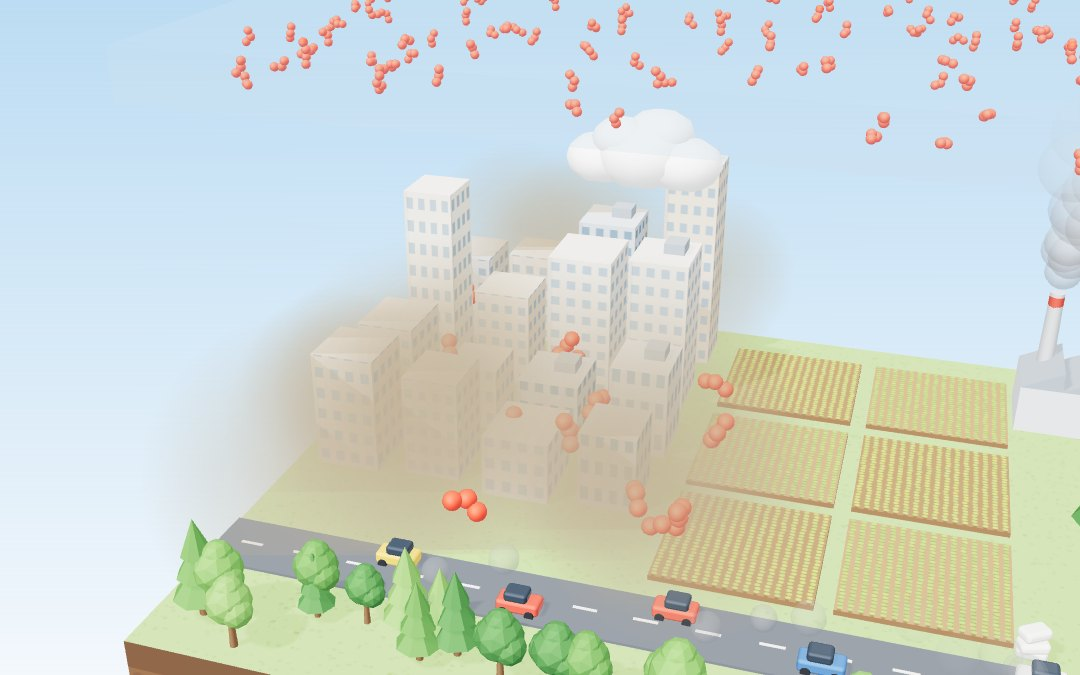
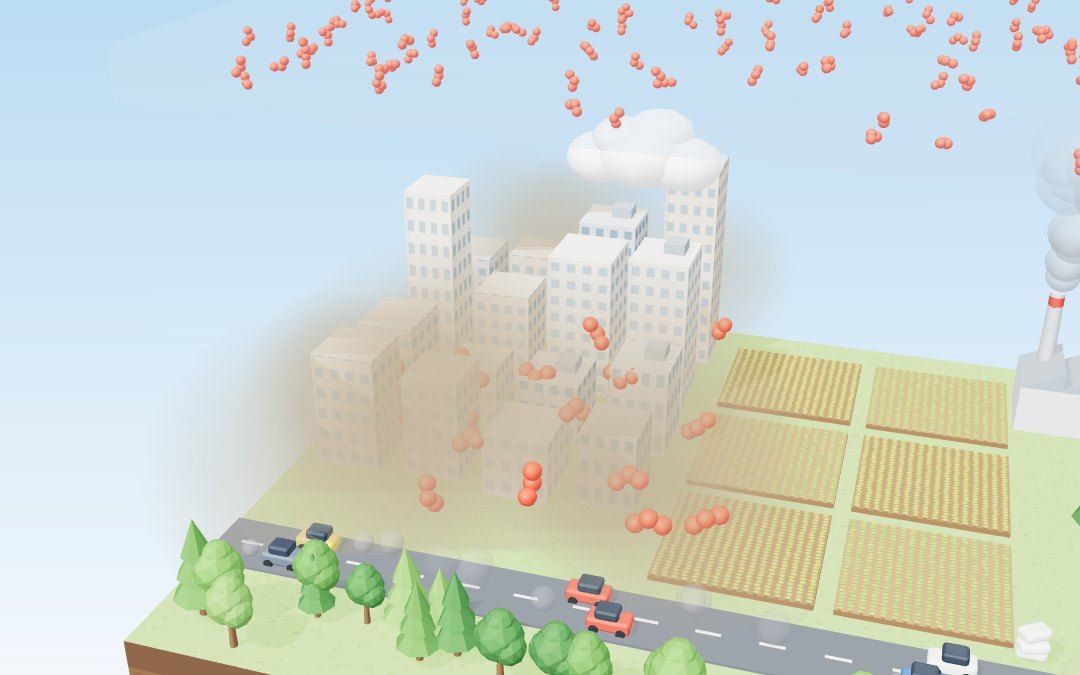
지구 환경 물질: 자외선 빛줄기·오존층 표시, 사진 다시 굽기, 한 화면 검사 목록

diff --git a/lessons/earth-substances/sim1-earth.html b/lessons/earth-substances/sim1-earth.html
@@ -853,7 +853,7 @@ const ES3 = (() => {
   // 땅 x -9~4.5, 바다 x 4.5~9, 앞뒤 z -4.5~4.5, 땅 위 y=0
   const RIVER = [V(1.35, 0, -4.5), V(1.7, 0, -3.2), V(2.15, 0, -2.0), V(2.95, 0, -0.9), V(3.55, 0, 0.3), V(4.1, 0, 1.0), V(4.62, 0, 1.25)];
   const PLACES = {
-    sky: { n: '높은 하늘', at: V(-3.2, 5.75, -1.2), box: [V(-9, 2.6, -5), V(9, 7.6, 2.5)], dir: V(0.12, 0.05, 1) },
+    sky: { n: '높은 하늘', at: V(-3.2, 5.75, -1.2), box: [V(-9, 2.4, -5), V(9, 8.6, 2.5)], dir: V(0.12, 0.05, 1) },
     city: { n: '도시', at: V(-6.9, 3.15, -0.6), box: [V(-9, 0, -4.5), V(-3.6, 2.8, 3.2)], dir: V(0.32, 0.5, 1) },
     farm: { n: '논밭', at: V(-2.4, 1.55, -1.3), box: [V(-4.5, 0, -4.4), V(-0.4, 1.6, 2.2)], dir: V(0.05, 0.85, 1) },
     forest: { n: '숲', at: V(3.0, 2.2, 3.0), box: [V(0.2, 0, -1), V(4.6, 2.2, 4.5)], dir: V(0.2, 0.45, 1) },
@@ -985,7 +985,7 @@ const ES3 = (() => {
     const layer = mesh(new THREE.BoxGeometry(18.6, .55, 8), new THREE.MeshStandardMaterial({ color: '#8fbbe6', roughness: 1, transparent: true, opacity: .26, depthWrite: false }), 0, LAYER_Y, -1, false); layer.castShadow = false; layer.receiveShadow = false; all.add(layer);
     const ozoneDots = new THREE.Group(); all.add(ozoneDots);
     for (let i = 0; i < 260; i++) { const m = tiny('O3', .055); m.position.set(-9.1 + R() * 18.2, LAYER_Y - .22 + R() * .44, -4.8 + R() * 7.6); m.rotation.set(R() * 6, R() * 6, R() * 6); ozoneDots.add(m); }
-    const sunP = V(-7.2, 6.55, -4.6);
+    const sunP = V(-8.6, 8.9, -6.2);
     const sunMesh = mesh(new THREE.SphereGeometry(.62, 32, 20), new THREE.MeshBasicMaterial({ color: '#ffd45a' }), sunP.x, sunP.y, sunP.z, false); all.add(sunMesh);
 
     /* 이름표(누르면 그곳으로) */
@@ -1017,9 +1017,9 @@ const ES3 = (() => {
       if (place === 'city' || place === 'forest') cars.forEach((c) => { c.position.x += c.userData.dir * dt * .9; if (c.position.x > 0.9) c.position.x = -8.9; if (c.position.x < -8.9) c.position.x = 0.9; });
       if (place === 'sky') {
         acc += dt; if (acc > .08) { acc = 0; // 자외선: 해에서 땅 쪽으로, 오존층에서 흡수
-          const tx = -6 + Math.random() * 13, tz = -3.5 + Math.random() * 6, dir = V(tx, 0, tz).sub(sunP).normalize();
+          const hit = V(-8.5 + Math.random() * 17, LAYER_Y + .25, -4 + Math.random() * 6), dir = V(.42 + (Math.random() - .5) * .06, -1, .12).normalize();
           const ray = new THREE.Mesh(new THREE.CylinderGeometry(.04, .04, 1, 8), new THREE.MeshBasicMaterial({ color: '#7a48e6', transparent: true, opacity: .9 }));
-          ray.quaternion.setFromUnitVectors(V(0, 1, 0), dir); ray.scale.y = 1.8; const p0 = sunP.clone().addScaledVector(dir, .8);
+          ray.quaternion.setFromUnitVectors(V(0, 1, 0), dir); ray.scale.y = 1.8; const p0 = hit.clone().addScaledVector(dir, -3.4 / -dir.y);
           ray.position.copy(p0); addPart(ray, { kind: 'ray', dir, p: p0.clone(), life: 9 });
         }
       }
@@ -1084,6 +1084,7 @@ const ES3 = (() => {
     function go(k, dur = 1.2) {
       if (k === place) return; place = k; clearFx(); acc = acc2 = 0; pv = 0;
       Object.entries(labels).forEach(([n, L]) => L.el.classList.toggle('on', n === k));
+      ozoneDots.visible = layer.visible = !k || k === 'sky' || k === 'city'; labels.sky.show = ozoneDots.visible;
       if (!k) { home(dur); return; }
       const P = PLACES[k], box = new THREE.Box3(P.box[0], P.box[1]), h = new THREE.Object3D();
       const helper = new THREE.Mesh(new THREE.BoxGeometry(...box.getSize(V()).toArray()), new THREE.MeshBasicMaterial()); helper.position.copy(box.getCenter(V())); helper.updateMatrixWorld(true); void h;
@@ -1157,7 +1158,7 @@ const ES3 = (() => {
   function still(host, k) {
     if (k.startsWith('w-')) { // 지구 환경 모형
       const w = world(host, { still: true }); let p = k.slice(2); const many = p === 'forest2'; if (many) p = 'forest';
-      if (p !== 'all') { w.go(p, 0); if (many) w.setCO2(1); for (let i = 0; i < (many ? 160 : 60); i++) w.step(.2); }
+      if (p !== 'all') { w.go(p, 0); if (many) w.setCO2(1); for (let i = 0; i < (many ? 640 : 260); i++) w.step(.05); }
       w.st.release(); setTimeout(() => { window.__ready = true; }, 800); return w;
     }
     host.style.background = '#fff';

diff --git a/lessons/earth-substances/sim2-formula.html b/lessons/earth-substances/sim2-formula.html
@@ -858,7 +858,7 @@ const ES3 = (() => {
   // 땅 x -9~4.5, 바다 x 4.5~9, 앞뒤 z -4.5~4.5, 땅 위 y=0
   const RIVER = [V(1.35, 0, -4.5), V(1.7, 0, -3.2), V(2.15, 0, -2.0), V(2.95, 0, -0.9), V(3.55, 0, 0.3), V(4.1, 0, 1.0), V(4.62, 0, 1.25)];
   const PLACES = {
-    sky: { n: '높은 하늘', at: V(-3.2, 5.75, -1.2), box: [V(-9, 2.6, -5), V(9, 7.6, 2.5)], dir: V(0.12, 0.05, 1) },
+    sky: { n: '높은 하늘', at: V(-3.2, 5.75, -1.2), box: [V(-9, 2.4, -5), V(9, 8.6, 2.5)], dir: V(0.12, 0.05, 1) },
     city: { n: '도시', at: V(-6.9, 3.15, -0.6), box: [V(-9, 0, -4.5), V(-3.6, 2.8, 3.2)], dir: V(0.32, 0.5, 1) },
     farm: { n: '논밭', at: V(-2.4, 1.55, -1.3), box: [V(-4.5, 0, -4.4), V(-0.4, 1.6, 2.2)], dir: V(0.05, 0.85, 1) },
     forest: { n: '숲', at: V(3.0, 2.2, 3.0), box: [V(0.2, 0, -1), V(4.6, 2.2, 4.5)], dir: V(0.2, 0.45, 1) },
@@ -990,7 +990,7 @@ const ES3 = (() => {
     const layer = mesh(new THREE.BoxGeometry(18.6, .55, 8), new THREE.MeshStandardMaterial({ color: '#8fbbe6', roughness: 1, transparent: true, opacity: .26, depthWrite: false }), 0, LAYER_Y, -1, false); layer.castShadow = false; layer.receiveShadow = false; all.add(layer);
     const ozoneDots = new THREE.Group(); all.add(ozoneDots);
     for (let i = 0; i < 260; i++) { const m = tiny('O3', .055); m.position.set(-9.1 + R() * 18.2, LAYER_Y - .22 + R() * .44, -4.8 + R() * 7.6); m.rotation.set(R() * 6, R() * 6, R() * 6); ozoneDots.add(m); }
-    const sunP = V(-7.2, 6.55, -4.6);
+    const sunP = V(-8.6, 8.9, -6.2);
     const sunMesh = mesh(new THREE.SphereGeometry(.62, 32, 20), new THREE.MeshBasicMaterial({ color: '#ffd45a' }), sunP.x, sunP.y, sunP.z, false); all.add(sunMesh);
 
     /* 이름표(누르면 그곳으로) */
@@ -1022,9 +1022,9 @@ const ES3 = (() => {
       if (place === 'city' || place === 'forest') cars.forEach((c) => { c.position.x += c.userData.dir * dt * .9; if (c.position.x > 0.9) c.position.x = -8.9; if (c.position.x < -8.9) c.position.x = 0.9; });
       if (place === 'sky') {
         acc += dt; if (acc > .08) { acc = 0; // 자외선: 해에서 땅 쪽으로, 오존층에서 흡수
-          const tx = -6 + Math.random() * 13, tz = -3.5 + Math.random() * 6, dir = V(tx, 0, tz).sub(sunP).normalize();
+          const hit = V(-8.5 + Math.random() * 17, LAYER_Y + .25, -4 + Math.random() * 6), dir = V(.42 + (Math.random() - .5) * .06, -1, .12).normalize();
           const ray = new THREE.Mesh(new THREE.CylinderGeometry(.04, .04, 1, 8), new THREE.MeshBasicMaterial({ color: '#7a48e6', transparent: true, opacity: .9 }));
-          ray.quaternion.setFromUnitVectors(V(0, 1, 0), dir); ray.scale.y = 1.8; const p0 = sunP.clone().addScaledVector(dir, .8);
+          ray.quaternion.setFromUnitVectors(V(0, 1, 0), dir); ray.scale.y = 1.8; const p0 = hit.clone().addScaledVector(dir, -3.4 / -dir.y);
           ray.position.copy(p0); addPart(ray, { kind: 'ray', dir, p: p0.clone(), life: 9 });
         }
       }
@@ -1089,6 +1089,7 @@ const ES3 = (() => {
     function go(k, dur = 1.2) {
       if (k === place) return; place = k; clearFx(); acc = acc2 = 0; pv = 0;
       Object.entries(labels).forEach(([n, L]) => L.el.classList.toggle('on', n === k));
+      ozoneDots.visible = layer.visible = !k || k === 'sky' || k === 'city'; labels.sky.show = ozoneDots.visible;
       if (!k) { home(dur); return; }
       const P = PLACES[k], box = new THREE.Box3(P.box[0], P.box[1]), h = new THREE.Object3D();
       const helper = new THREE.Mesh(new THREE.BoxGeometry(...box.getSize(V()).toArray()), new THREE.MeshBasicMaterial()); helper.position.copy(box.getCenter(V())); helper.updateMatrixWorld(true); void h;
@@ -1162,7 +1163,7 @@ const ES3 = (() => {
   function still(host, k) {
     if (k.startsWith('w-')) { // 지구 환경 모형
       const w = world(host, { still: true }); let p = k.slice(2); const many = p === 'forest2'; if (many) p = 'forest';
-      if (p !== 'all') { w.go(p, 0); if (many) w.setCO2(1); for (let i = 0; i < (many ? 160 : 60); i++) w.step(.2); }
+      if (p !== 'all') { w.go(p, 0); if (many) w.setCO2(1); for (let i = 0; i < (many ? 640 : 260); i++) w.step(.05); }
       w.st.release(); setTimeout(() => { window.__ready = true; }, 800); return w;
     }
     host.style.background = '#fff';

diff --git a/lessons/earth-substances/_fig.html b/lessons/earth-substances/_fig.html
@@ -679,7 +679,7 @@ const ES3 = (() => {
   // 땅 x -9~4.5, 바다 x 4.5~9, 앞뒤 z -4.5~4.5, 땅 위 y=0
   const RIVER = [V(1.35, 0, -4.5), V(1.7, 0, -3.2), V(2.15, 0, -2.0), V(2.95, 0, -0.9), V(3.55, 0, 0.3), V(4.1, 0, 1.0), V(4.62, 0, 1.25)];
   const PLACES = {
-    sky: { n: '높은 하늘', at: V(-3.2, 5.75, -1.2), box: [V(-9, 2.6, -5), V(9, 7.6, 2.5)], dir: V(0.12, 0.05, 1) },
+    sky: { n: '높은 하늘', at: V(-3.2, 5.75, -1.2), box: [V(-9, 2.4, -5), V(9, 8.6, 2.5)], dir: V(0.12, 0.05, 1) },
     city: { n: '도시', at: V(-6.9, 3.15, -0.6), box: [V(-9, 0, -4.5), V(-3.6, 2.8, 3.2)], dir: V(0.32, 0.5, 1) },
     farm: { n: '논밭', at: V(-2.4, 1.55, -1.3), box: [V(-4.5, 0, -4.4), V(-0.4, 1.6, 2.2)], dir: V(0.05, 0.85, 1) },
     forest: { n: '숲', at: V(3.0, 2.2, 3.0), box: [V(0.2, 0, -1), V(4.6, 2.2, 4.5)], dir: V(0.2, 0.45, 1) },
@@ -811,7 +811,7 @@ const ES3 = (() => {
     const layer = mesh(new THREE.BoxGeometry(18.6, .55, 8), new THREE.MeshStandardMaterial({ color: '#8fbbe6', roughness: 1, transparent: true, opacity: .26, depthWrite: false }), 0, LAYER_Y, -1, false); layer.castShadow = false; layer.receiveShadow = false; all.add(layer);
     const ozoneDots = new THREE.Group(); all.add(ozoneDots);
     for (let i = 0; i < 260; i++) { const m = tiny('O3', .055); m.position.set(-9.1 + R() * 18.2, LAYER_Y - .22 + R() * .44, -4.8 + R() * 7.6); m.rotation.set(R() * 6, R() * 6, R() * 6); ozoneDots.add(m); }
-    const sunP = V(-7.2, 6.55, -4.6);
+    const sunP = V(-8.6, 8.9, -6.2);
     const sunMesh = mesh(new THREE.SphereGeometry(.62, 32, 20), new THREE.MeshBasicMaterial({ color: '#ffd45a' }), sunP.x, sunP.y, sunP.z, false); all.add(sunMesh);
 
     /* 이름표(누르면 그곳으로) */
@@ -843,9 +843,9 @@ const ES3 = (() => {
       if (place === 'city' || place === 'forest') cars.forEach((c) => { c.position.x += c.userData.dir * dt * .9; if (c.position.x > 0.9) c.position.x = -8.9; if (c.position.x < -8.9) c.position.x = 0.9; });
       if (place === 'sky') {
         acc += dt; if (acc > .08) { acc = 0; // 자외선: 해에서 땅 쪽으로, 오존층에서 흡수
-          const tx = -6 + Math.random() * 13, tz = -3.5 + Math.random() * 6, dir = V(tx, 0, tz).sub(sunP).normalize();
+          const hit = V(-8.5 + Math.random() * 17, LAYER_Y + .25, -4 + Math.random() * 6), dir = V(.42 + (Math.random() - .5) * .06, -1, .12).normalize();
           const ray = new THREE.Mesh(new THREE.CylinderGeometry(.04, .04, 1, 8), new THREE.MeshBasicMaterial({ color: '#7a48e6', transparent: true, opacity: .9 }));
-          ray.quaternion.setFromUnitVectors(V(0, 1, 0), dir); ray.scale.y = 1.8; const p0 = sunP.clone().addScaledVector(dir, .8);
+          ray.quaternion.setFromUnitVectors(V(0, 1, 0), dir); ray.scale.y = 1.8; const p0 = hit.clone().addScaledVector(dir, -3.4 / -dir.y);
           ray.position.copy(p0); addPart(ray, { kind: 'ray', dir, p: p0.clone(), life: 9 });
         }
       }
@@ -910,6 +910,7 @@ const ES3 = (() => {
     function go(k, dur = 1.2) {
       if (k === place) return; place = k; clearFx(); acc = acc2 = 0; pv = 0;
       Object.entries(labels).forEach(([n, L]) => L.el.classList.toggle('on', n === k));
+      ozoneDots.visible = layer.visible = !k || k === 'sky' || k === 'city'; labels.sky.show = ozoneDots.visible;
       if (!k) { home(dur); return; }
       const P = PLACES[k], box = new THREE.Box3(P.box[0], P.box[1]), h = new THREE.Object3D();
       const helper = new THREE.Mesh(new THREE.BoxGeometry(...box.getSize(V()).toArray()), new THREE.MeshBasicMaterial()); helper.position.copy(box.getCenter(V())); helper.updateMatrixWorld(true); void h;
@@ -983,7 +984,7 @@ const ES3 = (() => {
   function still(host, k) {
     if (k.startsWith('w-')) { // 지구 환경 모형
       const w = world(host, { still: true }); let p = k.slice(2); const many = p === 'forest2'; if (many) p = 'forest';
-      if (p !== 'all') { w.go(p, 0); if (many) w.setCO2(1); for (let i = 0; i < (many ? 160 : 60); i++) w.step(.2); }
+      if (p !== 'all') { w.go(p, 0); if (many) w.setCO2(1); for (let i = 0; i < (many ? 640 : 260); i++) w.step(.05); }
       w.st.release(); setTimeout(() => { window.__ready = true; }, 800); return w;
     }
     host.style.background = '#fff';

diff --git a/tools/lesson-kit/src/earth-substances/_es3.js b/tools/lesson-kit/src/earth-substances/_es3.js
@@ -90,7 +90,7 @@ const ES3 = (() => {
   // 땅 x -9~4.5, 바다 x 4.5~9, 앞뒤 z -4.5~4.5, 땅 위 y=0
   const RIVER = [V(1.35, 0, -4.5), V(1.7, 0, -3.2), V(2.15, 0, -2.0), V(2.95, 0, -0.9), V(3.55, 0, 0.3), V(4.1, 0, 1.0), V(4.62, 0, 1.25)];
   const PLACES = {
-    sky: { n: '높은 하늘', at: V(-3.2, 5.75, -1.2), box: [V(-9, 2.6, -5), V(9, 7.6, 2.5)], dir: V(0.12, 0.05, 1) },
+    sky: { n: '높은 하늘', at: V(-3.2, 5.75, -1.2), box: [V(-9, 2.4, -5), V(9, 8.6, 2.5)], dir: V(0.12, 0.05, 1) },
     city: { n: '도시', at: V(-6.9, 3.15, -0.6), box: [V(-9, 0, -4.5), V(-3.6, 2.8, 3.2)], dir: V(0.32, 0.5, 1) },
     farm: { n: '논밭', at: V(-2.4, 1.55, -1.3), box: [V(-4.5, 0, -4.4), V(-0.4, 1.6, 2.2)], dir: V(0.05, 0.85, 1) },
     forest: { n: '숲', at: V(3.0, 2.2, 3.0), box: [V(0.2, 0, -1), V(4.6, 2.2, 4.5)], dir: V(0.2, 0.45, 1) },
@@ -222,7 +222,7 @@ const ES3 = (() => {
     const layer = mesh(new THREE.BoxGeometry(18.6, .55, 8), new THREE.MeshStandardMaterial({ color: '#8fbbe6', roughness: 1, transparent: true, opacity: .26, depthWrite: false }), 0, LAYER_Y, -1, false); layer.castShadow = false; layer.receiveShadow = false; all.add(layer);
     const ozoneDots = new THREE.Group(); all.add(ozoneDots);
     for (let i = 0; i < 260; i++) { const m = tiny('O3', .055); m.position.set(-9.1 + R() * 18.2, LAYER_Y - .22 + R() * .44, -4.8 + R() * 7.6); m.rotation.set(R() * 6, R() * 6, R() * 6); ozoneDots.add(m); }
-    const sunP = V(-7.2, 6.55, -4.6);
+    const sunP = V(-8.6, 8.9, -6.2);
     const sunMesh = mesh(new THREE.SphereGeometry(.62, 32, 20), new THREE.MeshBasicMaterial({ color: '#ffd45a' }), sunP.x, sunP.y, sunP.z, false); all.add(sunMesh);
 
     /* 이름표(누르면 그곳으로) */
@@ -254,9 +254,9 @@ const ES3 = (() => {
       if (place === 'city' || place === 'forest') cars.forEach((c) => { c.position.x += c.userData.dir * dt * .9; if (c.position.x > 0.9) c.position.x = -8.9; if (c.position.x < -8.9) c.position.x = 0.9; });
       if (place === 'sky') {
         acc += dt; if (acc > .08) { acc = 0; // 자외선: 해에서 땅 쪽으로, 오존층에서 흡수
-          const tx = -6 + Math.random() * 13, tz = -3.5 + Math.random() * 6, dir = V(tx, 0, tz).sub(sunP).normalize();
+          const hit = V(-8.5 + Math.random() * 17, LAYER_Y + .25, -4 + Math.random() * 6), dir = V(.42 + (Math.random() - .5) * .06, -1, .12).normalize();
           const ray = new THREE.Mesh(new THREE.CylinderGeometry(.04, .04, 1, 8), new THREE.MeshBasicMaterial({ color: '#7a48e6', transparent: true, opacity: .9 }));
-          ray.quaternion.setFromUnitVectors(V(0, 1, 0), dir); ray.scale.y = 1.8; const p0 = sunP.clone().addScaledVector(dir, .8);
+          ray.quaternion.setFromUnitVectors(V(0, 1, 0), dir); ray.scale.y = 1.8; const p0 = hit.clone().addScaledVector(dir, -3.4 / -dir.y);
           ray.position.copy(p0); addPart(ray, { kind: 'ray', dir, p: p0.clone(), life: 9 });
         }
       }
@@ -321,6 +321,7 @@ const ES3 = (() => {
     function go(k, dur = 1.2) {
       if (k === place) return; place = k; clearFx(); acc = acc2 = 0; pv = 0;
       Object.entries(labels).forEach(([n, L]) => L.el.classList.toggle('on', n === k));
+      ozoneDots.visible = layer.visible = !k || k === 'sky' || k === 'city'; labels.sky.show = ozoneDots.visible;
       if (!k) { home(dur); return; }
       const P = PLACES[k], box = new THREE.Box3(P.box[0], P.box[1]), h = new THREE.Object3D();
       const helper = new THREE.Mesh(new THREE.BoxGeometry(...box.getSize(V()).toArray()), new THREE.MeshBasicMaterial()); helper.position.copy(box.getCenter(V())); helper.updateMatrixWorld(true); void h;
@@ -394,7 +395,7 @@ const ES3 = (() => {
   function still(host, k) {
     if (k.startsWith('w-')) { // 지구 환경 모형
       const w = world(host, { still: true }); let p = k.slice(2); const many = p === 'forest2'; if (many) p = 'forest';
-      if (p !== 'all') { w.go(p, 0); if (many) w.setCO2(1); for (let i = 0; i < (many ? 160 : 60); i++) w.step(.2); }
+      if (p !== 'all') { w.go(p, 0); if (many) w.setCO2(1); for (let i = 0; i < (many ? 640 : 260); i++) w.step(.05); }
       w.st.release(); setTimeout(() => { window.__ready = true; }, 800); return w;
     }
     host.style.background = '#fff';

diff --git a/lessons/earth-substances/reading.html b/lessons/earth-substances/reading.html
@@ -292,7 +292,7 @@
   /* 뉴스 */
   .news{display:grid;grid-template-columns:repeat(2,1fr);gap:10px;padding:14px}
   .nw{display:grid;grid-template-columns:86px 1fr;gap:10px;align-items:center;border:1px solid var(--line);border-radius:14px;padding:8px 12px 8px 8px;background:#fff}
-  .nw img{display:block;width:86px;height:70px;object-fit:contain;background:#f7fafd;border-radius:10px}
+  .nw img{display:block;width:86px;height:70px;object-fit:contain;background:#fff;border-radius:10px}
   .nw b{display:block;font-size:15.5px;line-height:1.45;color:#14263b;word-break:keep-all}
   .nw span{font-size:13px;font-weight:800;color:#0e63b3}
   .nw.wide{grid-column:1/-1}
@@ -317,7 +317,7 @@
   .two > div b.t{display:block;color:#0e63b3;font-size:16px}
   .o2o3{display:grid;grid-template-columns:1fr auto 1fr;gap:8px;align-items:center;padding:14px 14px 4px}
   .o2o3 figure{margin:0;text-align:center}
-  .o2o3 img{display:block;width:100%;max-width:240px;height:auto;margin:0 auto}
+  .o2o3 img{display:block;width:100%;max-width:180px;height:auto;margin:0 auto}
   .o2o3 figcaption{font-weight:900;font-size:16px}
   .o2o3 .mid{font-size:13.5px;font-weight:800;color:#5a6b7e;text-align:center;line-height:1.5;word-break:keep-all;max-width:180px}
   /* 모둠 활동 */

diff --git a/tools/lesson-kit/src/earth-substances/reading.tpl.html b/tools/lesson-kit/src/earth-substances/reading.tpl.html
@@ -32,7 +32,7 @@
   /* 뉴스 */
   .news{display:grid;grid-template-columns:repeat(2,1fr);gap:10px;padding:14px}
   .nw{display:grid;grid-template-columns:86px 1fr;gap:10px;align-items:center;border:1px solid var(--line);border-radius:14px;padding:8px 12px 8px 8px;background:#fff}
-  .nw img{display:block;width:86px;height:70px;object-fit:contain;background:#f7fafd;border-radius:10px}
+  .nw img{display:block;width:86px;height:70px;object-fit:contain;background:#fff;border-radius:10px}
   .nw b{display:block;font-size:15.5px;line-height:1.45;color:#14263b;word-break:keep-all}
   .nw span{font-size:13px;font-weight:800;color:#0e63b3}
   .nw.wide{grid-column:1/-1}
@@ -57,7 +57,7 @@
   .two > div b.t{display:block;color:#0e63b3;font-size:16px}
   .o2o3{display:grid;grid-template-columns:1fr auto 1fr;gap:8px;align-items:center;padding:14px 14px 4px}
   .o2o3 figure{margin:0;text-align:center}
-  .o2o3 img{display:block;width:100%;max-width:240px;height:auto;margin:0 auto}
+  .o2o3 img{display:block;width:100%;max-width:180px;height:auto;margin:0 auto}
   .o2o3 figcaption{font-weight:900;font-size:16px}
   .o2o3 .mid{font-size:13.5px;font-weight:800;color:#5a6b7e;text-align:center;line-height:1.5;word-break:keep-all;max-width:180px}
   /* 모둠 활동 */

diff --git a/lessons/earth-substances/sim3-share.html b/lessons/earth-substances/sim3-share.html
@@ -177,7 +177,7 @@
   .grid.four{grid-template-columns:1fr 1fr;grid-auto-rows:1fr}
   .pc{background:#fff;border-radius:14px;box-shadow:0 1px 2px rgba(20,38,59,.08),0 4px 14px rgba(20,38,59,.06);padding:10px 12px;display:flex;flex-direction:column;gap:4px;min-height:0;overflow:hidden}
   .pc .top{display:flex;gap:10px;align-items:center}
-  .pc .top img{width:62px;height:62px;object-fit:contain;background:#f5f8fb;border-radius:10px;flex:none}
+  .pc .top img{width:62px;height:62px;object-fit:contain;background:#fff;border-radius:10px;flex:none}
   .pc .top .who{font-size:12.5px;font-weight:800;color:#5a6b7e}
   .pc .top .nm{font-size:17px;font-weight:900;color:#14263b;line-height:1.3}
   .pc .top .nm .f{color:#0e63b3;margin-left:6px}

diff --git a/tools/lesson-kit/src/earth-substances/sim3-share.tpl.html b/tools/lesson-kit/src/earth-substances/sim3-share.tpl.html
@@ -19,7 +19,7 @@
   .grid.four{grid-template-columns:1fr 1fr;grid-auto-rows:1fr}
   .pc{background:#fff;border-radius:14px;box-shadow:0 1px 2px rgba(20,38,59,.08),0 4px 14px rgba(20,38,59,.06);padding:10px 12px;display:flex;flex-direction:column;gap:4px;min-height:0;overflow:hidden}
   .pc .top{display:flex;gap:10px;align-items:center}
-  .pc .top img{width:62px;height:62px;object-fit:contain;background:#f5f8fb;border-radius:10px;flex:none}
+  .pc .top img{width:62px;height:62px;object-fit:contain;background:#fff;border-radius:10px;flex:none}
   .pc .top .who{font-size:12.5px;font-weight:800;color:#5a6b7e}
   .pc .top .nm{font-size:17px;font-weight:900;color:#14263b;line-height:1.3}
   .pc .top .nm .f{color:#0e63b3;margin-left:6px}
